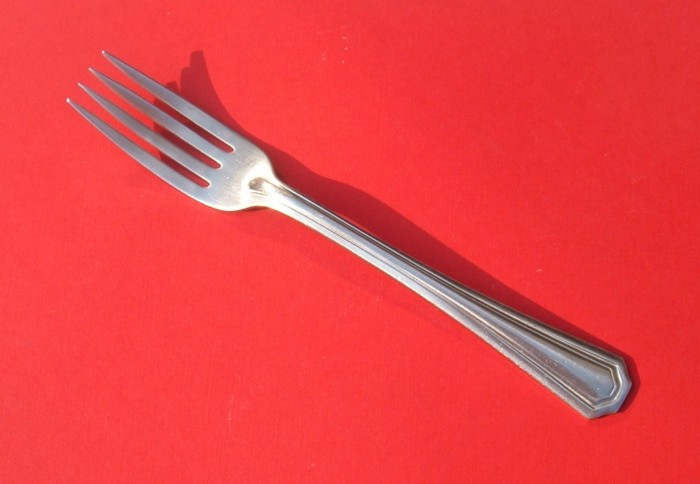
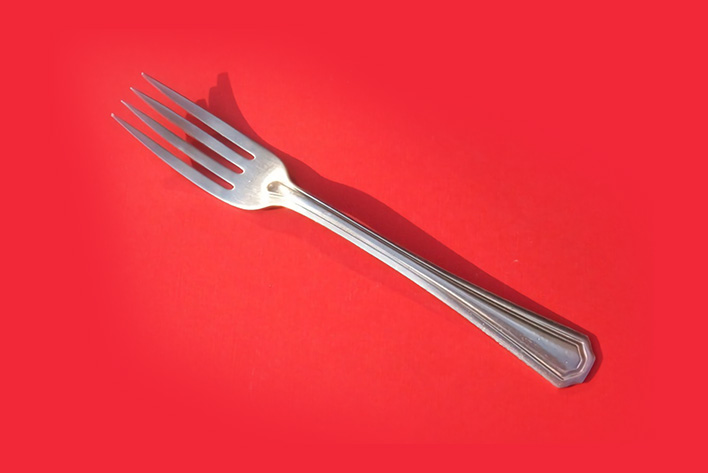
updated image

Changed region(s): [[0.0, 0.0, 0.93, 1.0], [0.45, 0.0888, 0.48, 0.1184]]

diff --git a/static/scss/styles.scss b/static/scss/styles.scss
@@ -21,7 +21,7 @@ html {
 }
 .hero {
   background-color: #F22738;
-  background-image: url("../assets/fork.jpg");
+  background-image: url("../assets/fork.png");
   padding: 100px 0 100px 0;
   min-height: 600px;
   height: auto;

diff --git a/static/css/styles.css b/static/css/styles.css
@@ -12,7 +12,7 @@ html {
 
 .hero {
   background-color: #F22738;
-  background-image: url("../assets/fork.jpg");
+  background-image: url("../assets/fork.png");
   padding: 100px 0 100px 0;
   min-height: 600px;
   height: auto;
